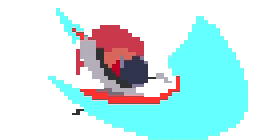
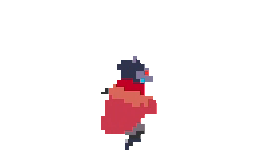
添加基本的挥砍动画

diff --git a/Src/Monomorphism/Actor.cpp b/Src/Monomorphism/Actor.cpp
@@ -383,6 +383,7 @@ void Actor::_UpdateAttackingWithSword(double time)
     }
 
     vel_.x = dir_ == Direction::Right ? runningVel_ / 3.0f : -runningVel_ / 3.0f;
+    vel_.y = 0.0f;
     act_.Tick(time);
 }
 
